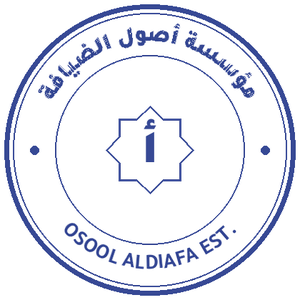
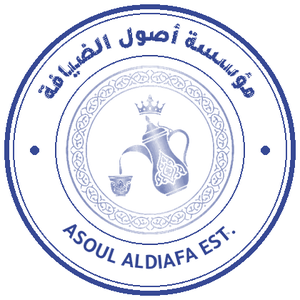
أصول الضيافة: الشعار الرسمي من asoulaldiafa.com + ختم مبني عليه + أيقونة التطبيق + البريد والجوال والموقع

Changed region(s): [[0.21, 0.21, 0.78, 0.78], [0.21, 0.75, 0.78, 0.9]]

diff --git a/lib/core/brand.dart b/lib/core/brand.dart
@@ -81,8 +81,8 @@ class Brand {
     city: 'جدة',
   );
 
-  /// أصول الضيافة — البيانات الرسمية (السجل/البنك/التواصل) تُدخل من «بيانات المؤسسة»
-  /// ولا نخترعها: الحقول الفارغة لا تظهر في المستندات.
+  /// أصول الضيافة — البيانات من الموقع الرسمي asoulaldiafa.com (الشعار، البريد، الجوال).
+  /// السجل التجاري والبنك غير منشورة في الموقع: تُدخل من «بيانات المؤسسة» ولا نخترعها.
   static const osool = Brand._(
     id: 'osool',
     appName: 'أصول الضيافة',
@@ -90,11 +90,11 @@ class Brand {
     backupPrefix: 'osool',
     dbName: 'osool_diafa',
     orgName: 'مؤسسة أصول الضيافة',
-    orgNameEn: 'OSOOL ALDIAFA EST.',
+    orgNameEn: 'ASOUL ALDIAFA EST.',
     cr: '',
-    website: '',
-    email: '',
-    phone: '',
+    website: 'asoulaldiafa.com',
+    email: 'asoulaldiafa@gmail.com',
+    phone: '0568997316',
     bankName: '',
     bankAccount: '',
     iban: '',

diff --git a/test/brand_test.dart b/test/brand_test.dart
@@ -29,6 +29,8 @@ void main() {
       expect(o.name, 'مؤسسة أصول الضيافة');
       expect(o.cr, isEmpty);
       expect(o.iban, isEmpty);
+    expect(o.phone, '0568997316');
+    expect(o.website, 'asoulaldiafa.com');
       expect(o.invoiceTerms, contains('أصول الضيافة'));
       expect(FileService.appFolder, 'أصول الضيافة');
       Brand.debugOverride = Brand.keif;

diff --git a/CHANGELOG.md b/CHANGELOG.md
@@ -4,7 +4,7 @@
 
 ### نسختان مستقلتان: كيف الضيافة / أصول الضيافة
 - `lib/core/brand.dart` + نكهات أندرويد `keif` و`osool` (معرّف حزمة، اسم، أيقونة، قاعدة بيانات، مجلد هاتف، نسخ احتياطي، شعار وختم مستقلة). بناء: `flutter build apk --flavor osool --dart-define=BRAND=osool`.
-- شعار وختم مؤقتان لأصول الضيافة في `assets/brand/osool/` + إمكانية رفع الشعار/الختم الحقيقي من الهاتف (إعدادات الفواتير ← الختم والشعار). بيانات أصول الرسمية (س.ت/البنك) فارغة حتى تُدخل — لا تُخترع.
+- هوية أصول الضيافة من الموقع الرسمي asoulaldiafa.com: الشعار الذهبي الرسمي (الدلة والتاج) للواجهة و PDF والأيقونة، ختم دائري مبني عليه، البريد asoulaldiafa@gmail.com والجوال 0568997316 والموقع. السجل التجاري والبنك غير منشورة في الموقع فتبقى فارغة حتى تُدخل من «بيانات المؤسسة». ويمكن رفع شعار/ختم آخر من الهاتف.
 
 ### خطاب المطالبة المالية (مرن)
 - نموذج `Claim` + شاشة قائمة/نموذج + PDF مطابق للنموذج المعتمد. كل شيء قابل للتعديل: الجهة (عميل أو اسم حر)، الموضوع، المخاطبة، التحية، النص بمتغيرات {org}/{event}، البنود (يدوية أو من فواتير العميل بمتبقيها مع عمود المرجع)، التفقيط، البنك، الختم، الخاتمة، الموقّع، الحالة. مدمج في القائمة الجانبية وصفحة العميل وسلة المحذوفات، ومجلد «خطابات المطالبة».
